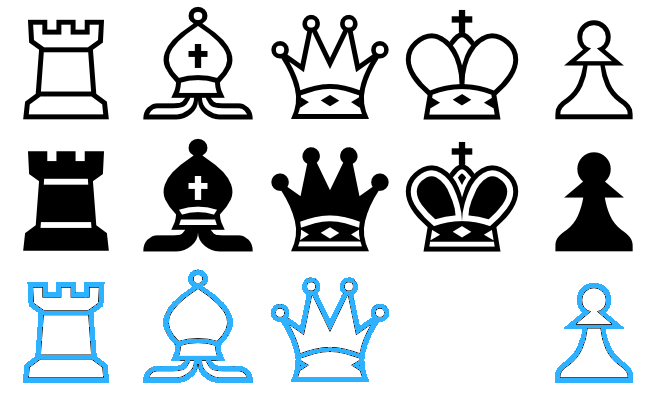
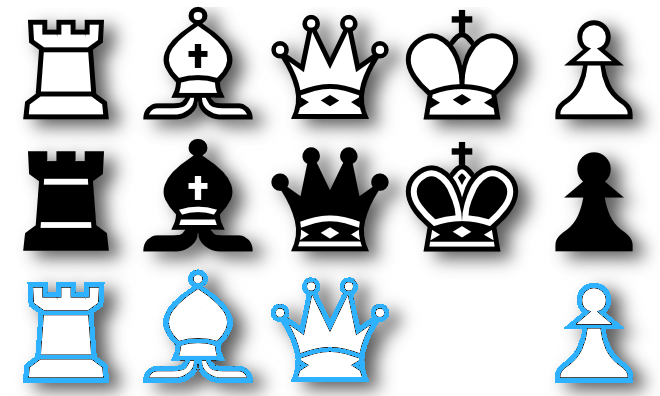
added shadow versions of pieces (and removed outline versions)

diff --git a/src/gui/boardtheme.cpp b/src/gui/boardtheme.cpp
@@ -18,7 +18,6 @@
 #include <QPixmap>
 
 BoardTheme::BoardTheme()
-    :   m_org_batyr (false)
 {
     m_pieceFilename = "new QString()";
     m_originalUrgent.load(":/images/urgent.png");
@@ -98,13 +97,8 @@ bool BoardTheme::isValid() const
 
 bool BoardTheme::loadPieces(const QString& pieces, int effect)
 {
-    m_org_batyr = (
-                pieces == "originalshatra"
-                );
-
     QString effectPath;
-    if (effect == Outline) effectPath = "outline";
-    else if (effect == Shadow) effectPath = "shadow";
+    if (effect == Shadow) effectPath = "shadow";
     QString themePath = QString("%1/%2/%3.png").arg(themeDirectory()).arg(effectPath).arg(pieces);
 
 	QPixmap big;

diff --git a/src/gui/boardtheme.h b/src/gui/boardtheme.h
@@ -34,7 +34,7 @@ public:
         LightSquare, DarkSquare, Highlight, Frame, CurrentMove,
         Background1, Background2, ColorRoleEndEntry };
     enum LoadTheme {LoadBoard = 1, LoadPieces = 2, LoadAll = LoadBoard | LoadPieces};
-    enum Effects {Plain, Outline = 1, Shadow = 2};
+    enum Effects {Plain, Shadow = 1};
     BoardTheme();
     ~BoardTheme();
     /* Reset piece and board selections based on config values */
@@ -96,7 +96,6 @@ private:
     QColor m_colors[ColorRoleEndEntry];
     QString m_pieceFilename;
     QString m_boardFilename;
-    bool m_org_batyr;
 };
 
 #endif
